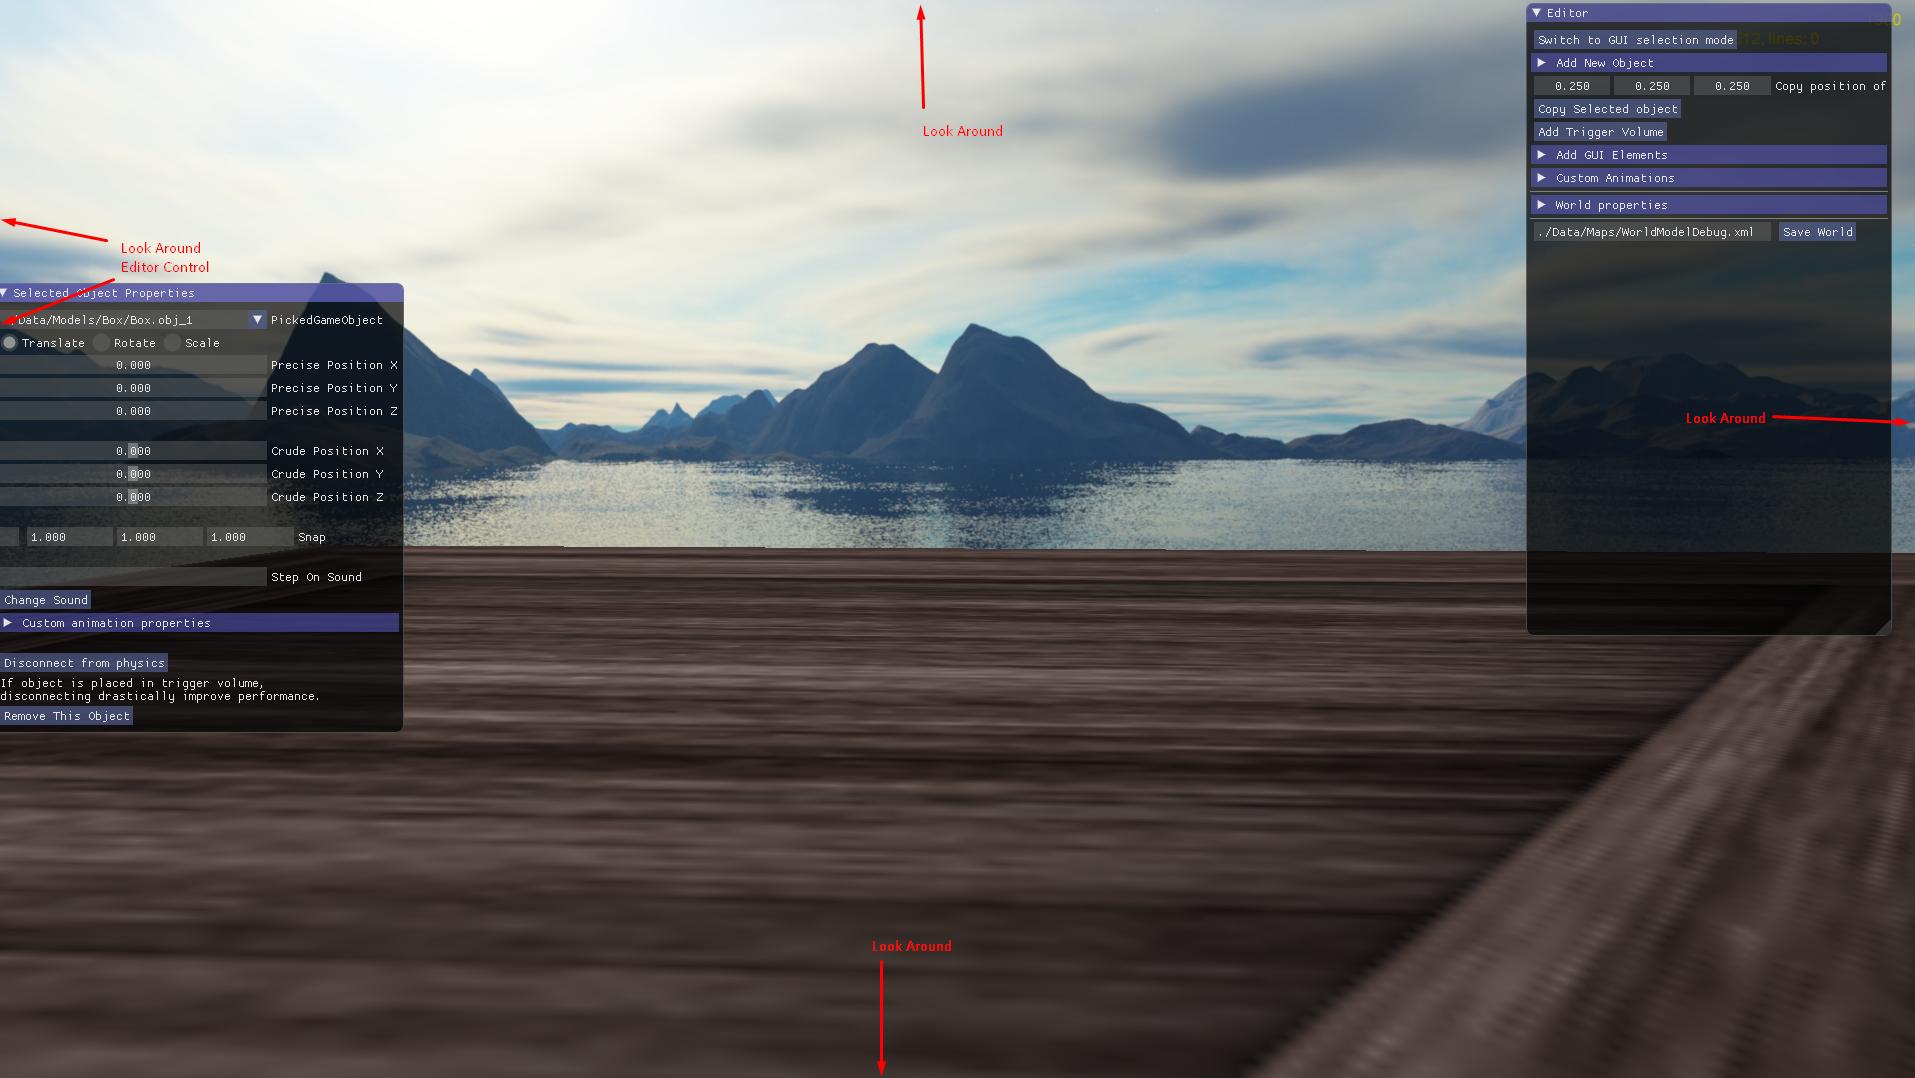
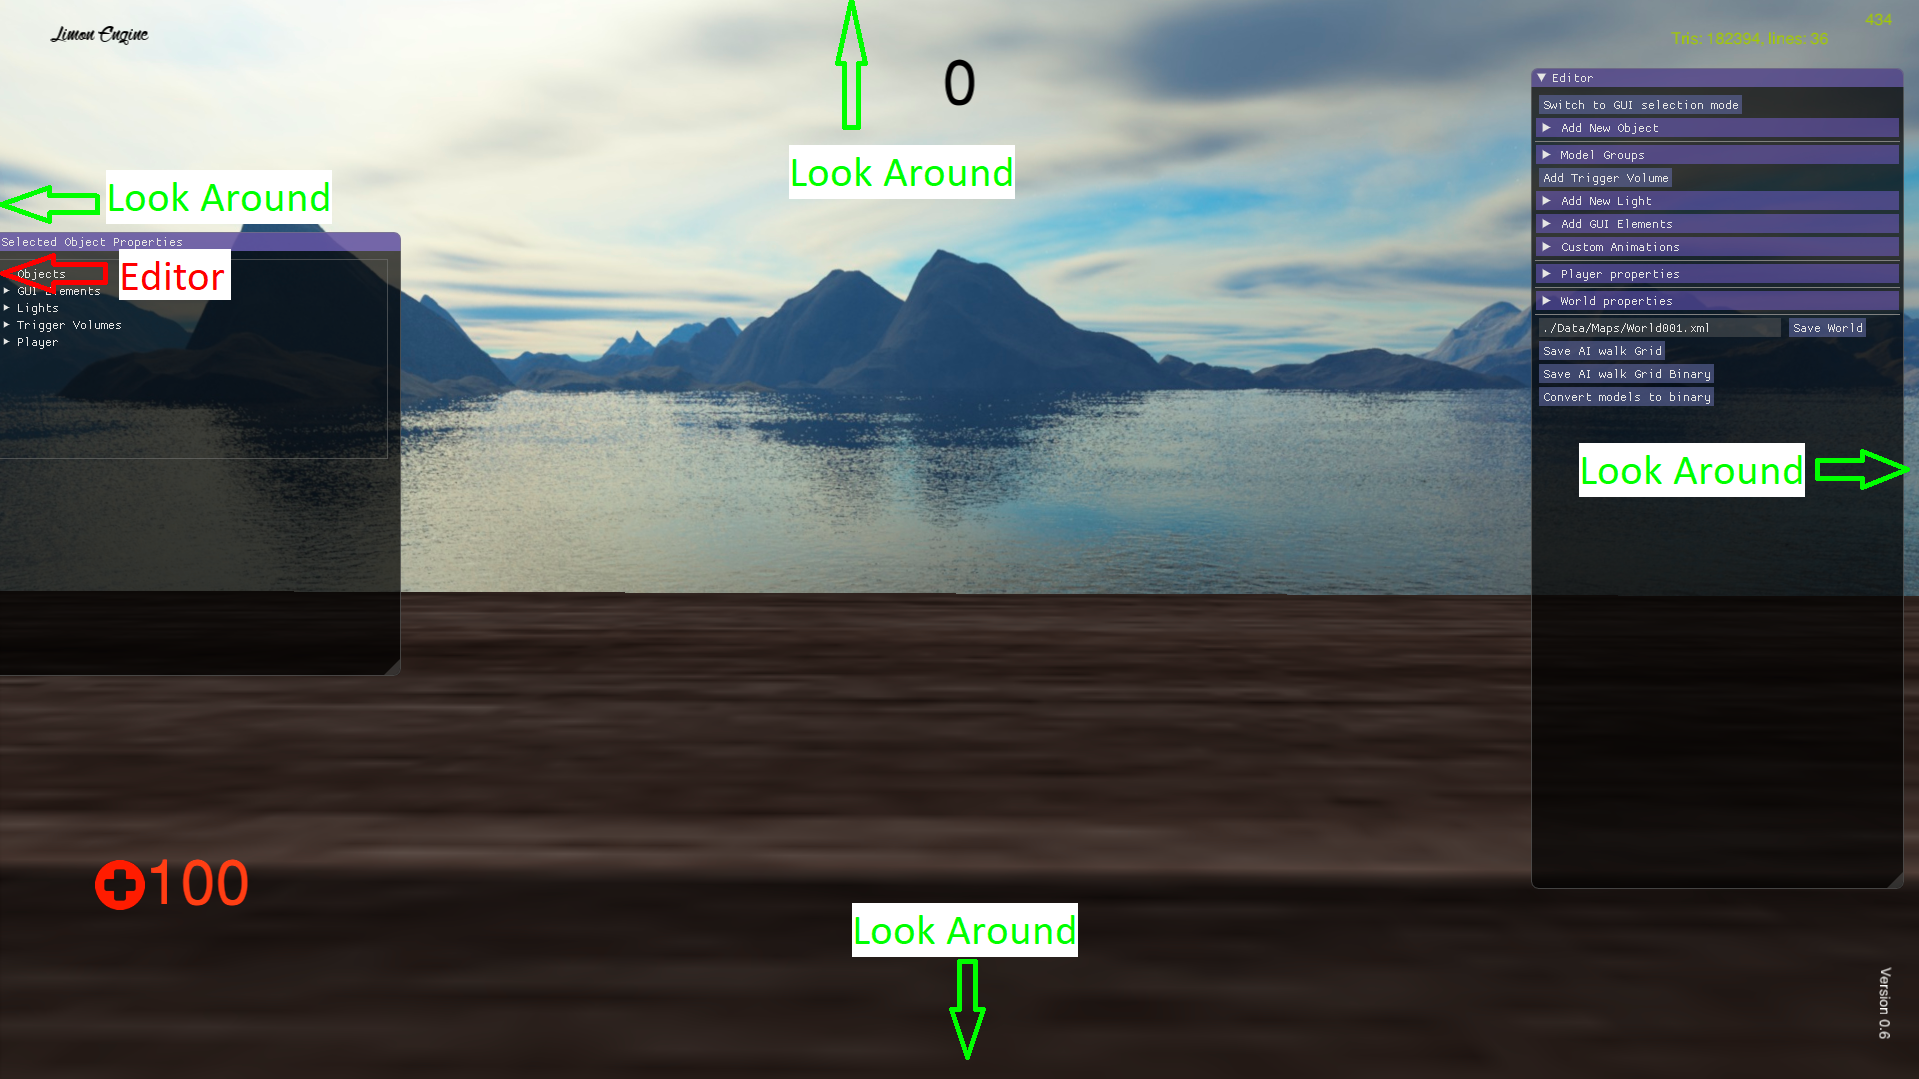
Editor usage improvements

diff --git a/docs/UsingTheEditor.rst b/docs/UsingTheEditor.rst
@@ -17,7 +17,7 @@ Editor mode uses a free cursor control scheme. You can move around by "WASD" and
 
 The editor has 3 main windows. By default left of the screen is object properties, right is world properties and bottom is animation sequencer. As expected you can drag and drop and resize the windows. If no object is selected, only the world properties window is visible. Animation sequencer is visible only when creating an animation.
 
-.. figure:: _static/media/images/editor-world-withAnimation.jpg
+.. figure:: _static/media/images/editor-world-withAnimation.png
     :align: center
 
 World Editor Details
@@ -25,7 +25,7 @@ World Editor Details
 
 World editor loads up with almost all the features hidden by the titles. The fresh loaded window looks like this:
 
-.. figure:: _static/media/images/editor-world-nonSelected.jpg
+.. figure:: _static/media/images/editor-world-nonSelected.png
     :align: center
 
 There are 2 main types of elements that can be used to build the world.
@@ -43,12 +43,14 @@ There are 2 types of 3D object you can add to the world.
 * Models
 * Trigger volumes
 
-.. figure:: _static/media/images/editor-addObject.png
+.. figure:: _static/media/images/WorldEditor/addObjectSelected.png
     :align: center
 
-Models list is loaded from "./Data/Models/" directory. You can select a model from the drop down list. When mass is set to 0, the object will be marked "static" by physics system. This means the model will not be able to move, outside of the editor. It is the default setting, to be used for building the world. Any other value will mark the object as "dynamic", meaning the objects movements will be governed by physics engine.
+A directory tree of ./Data folder will be loaded, with directories that don't contain model files filtered out. For filtering based on  file name, the text box just above can be used.
+When mass is set to 0, the object will be marked "static" by physics system. This means the model will not be able to move, outside of the editor. It is the default setting, to be used for building the world. Any other value will mark the object as "dynamic", meaning the objects movements will be governed by physics engine.
 
-If an object is already selected, "Copy position offsets" settings and "Copy Selected Objects" button is shown. These are used to copy selected object, with given offsets. Offsets can be used to make copy automatically position so a grid or a wall can be created.
+
+If an object is already selected, "Copy position offsets" settings and "Copy Selected Objects" button is shown. These are used to copy selected object, with given offsets. Offsets can be used to make copy automatically position so a grid or a wall can be easily created.
 
 .. figure:: _static/media/images/physics-hull_vs_full.png
     :align: center
@@ -91,19 +93,36 @@ You can add the following using the editor:
 * Text
 * Image
 * Button
+* Animation
+
+.. figure:: _static/media/images/WorldEditor/GUI_Layer.png
+    :align: center
 
 Add GUI layer menu allows you to add a new layer, with set level.
+
+.. figure:: _static/media/images/WorldEditor/GUI_Text.png
+    :align: center
 
 To add GUI text, you need to set the font, font size and name. The layer of the text can be selected from the drop down.
 
 .. note::
-    Since the font renderer is building the text using the set font size. GUI texts are not scalable.
+    Text scaling will be converted to font size on next load, to provide better quality
 
-To add GUI Image, you need to set the name and image files path relative to the engine. The layer of the image can be selected from the drop down.
+.. figure:: _static/media/images/WorldEditor/GUI_Image.png
+    :align: center
 
-To add GUI Button, you need to set the name, and normal image file path relative to the engine. The rest of the fields are optional. For details please check :ref:`GUI Button Settings`.
+When adding Image as GUI element, a directory tree of ./Data will be shown, filtered based on supported image formats. To filter based on file names, the fiter text box on top of directory listing can be used. The layer of the image can be selected from the drop down.
 
+.. figure:: _static/media/images/WorldEditor/GUI_Button.png
+    :align: center
+
+To add GUI Button, you need to set the name, and set normal image using directory tree. The rest of the fields are optional. For details please check :ref:`GUI Button Settings`.
 The layer of the button can be selected from the drop down.
+
+.. figure:: _static/media/images/WorldEditor/GUI_Animation.png
+    :align: center
+
+This Widget is not fully functional at 0.6 release. Please avoid until next release.
 
 Setting Up Map Properties
 _________________________
